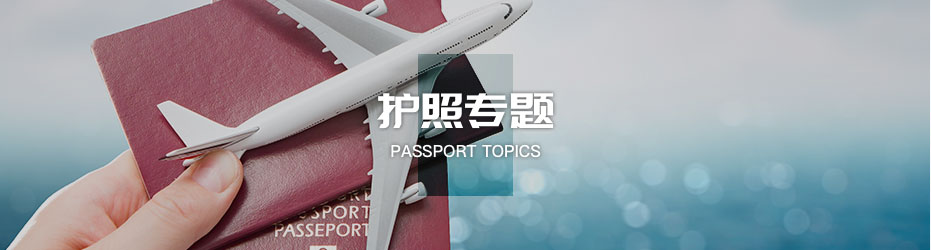
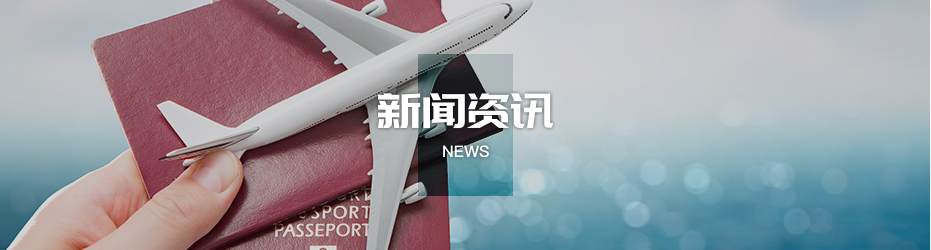
new

Changed region(s): [[0.4049, 0.364, 0.623, 0.532], [0.4049, 0.56, 0.5918, 0.644]]

diff --git a/src/views/home/Home.vue b/src/views/home/Home.vue
@@ -82,7 +82,7 @@
             戴森创始人詹姆斯·戴森
           </li>
         </ul>
-        <router-link to="/emigrant/four">查看更多 ></router-link>
+        <router-link to="/emigrant/singapore">查看更多 ></router-link>
       </div>
     </div>
 
@@ -126,9 +126,12 @@
         <ul>
           <li v-for="(news, index) in newCase" :key="index">
             <router-link class="a" :to="'/news-details/' + news.id">
-              <img
+              <i>
+                <img
                     v-lazy="{src: news.img, loading: require('../../assets/images/country-loading.png'), error: require('../../assets/images/country-loading.png')}"
                   />
+              </i>
+              
               <div class="d clearfix">
                 <h3>{{news.title}}</h3>
                 <p v-html="news.description"></p>
@@ -326,10 +329,19 @@ export default {
             transform: scale(1.03);
           }
         }
-        img {
+        i {
           display: block;
-          width: 100%;
+          height: 160px;
+          img {
+            width: 100%;
+            height: 100%;
+            object-fit: cover;
+          }
         }
+        // img {
+        //   display: block;
+        //   width: 100%;
+        // }
         .d {
           padding: 25px;
           h3 {
@@ -345,11 +357,11 @@ export default {
           p {
             margin: 5px 0 10px;
             color: #b9b9b9;
-            height: 144px;
+            height: 120px;
             line-height: 24px;
             overflow: hidden;     
             display: -webkit-box;
-            -webkit-line-clamp: 6;
+            -webkit-line-clamp: 5;
             -webkit-box-orient: vertical;
           }
           span {

diff --git a/src/views/news/NewsList.vue b/src/views/news/NewsList.vue
@@ -8,7 +8,7 @@
       <div class="left list-banner">
         <div class="new-tab">
           <span><router-link to="/news-expert">新加坡移民专家</router-link></span>
-          <span><router-link to="/news-thematic">护照专题</router-link></span>
+          <span><router-link to="/news-thematic">新闻资讯</router-link></span>
           <span> <router-link to="/news-case">成功案例</router-link></span>
         </div>
         <div class="banner">
@@ -59,7 +59,7 @@ export default {
         },
         thematic: {
           img: require('../../assets/images/news-thematic.jpg'),
-          title: '护照专题',
+          title: '新闻资讯',
           id: 1
         },
         expert: {
@@ -161,6 +161,7 @@ export default {
     display: block;
     width: 100%;
     height: 100%;
+    object-fit: cover;
   }
   .list {
     background: #fff;
@@ -182,7 +183,7 @@ export default {
     }
     p {
       height: 72px;
-      margin: 10px 0 43px 0;
+      margin: 10px 0 40px 0;
       line-height: 24px;
       overflow: hidden;
       display: -webkit-box;
@@ -228,6 +229,7 @@ export default {
     .img {
       float: left;
       width: 270px;
+      height: 160px;
       margin-right: 25px;
     }
   }

diff --git a/src/views/company/Index.vue b/src/views/company/Index.vue
@@ -15,11 +15,10 @@
           <div class="t">
             <strong>新加坡注册公司优势</strong>
             <p>1.	全球最低税赋国家之一</p>
-            <p>2.	获豁免的私人公司年收入不超过500万新币，则无需审计</p>
-            <p>3.	无外汇管制</p>
-            <p>4.	政治、经济和贸易环境稳定</p>
-            <p>5.	与多国签订投资和双重课税保护条约</p>
-            <p>6.	国际品牌与形象，清晰严格的制度与法律</p>
+            <p>2.	无外汇管制</p>
+            <p>3.	政治、经济和贸易环境稳定</p>
+            <p>4.	与多国签订投资和双重课税保护条约</p>
+            <p>5.	国际品牌与形象，清晰严格的制度与法律</p>
           </div>
         </div>
       </div>

diff --git a/src/views/canada/CanadaProject1.vue b/src/views/canada/CanadaProject1.vue
@@ -50,7 +50,7 @@ export default {
           {
             icon: require('../../assets/images/canada/advantage-icon3.jpg'),
             title: '世界一级经济体，政府支持计划',
-            text: '享有具竞争力的税务优惠、进入北美自由贸易区域的特权 、全球最低廉的能源费率、低廉的企业营运成本。'
+            text: '享有具竞争力的税务优惠、进入北美自由贸易区域的特权、全球最低廉的能源费率、低廉的企业营运成本。'
           },
           {
             icon: require('../../assets/images/canada/advantage-icon4.jpg'),

diff --git a/src/views/home/component/StudyAbroad.vue b/src/views/home/component/StudyAbroad.vue
@@ -25,6 +25,7 @@
         </swiper-slide>
       </swiper>
     </div>
+    <router-link class="view-more" to="/overseas-study/one">查看更多 ></router-link>
   </div>
 </template>
 <script>
@@ -182,6 +183,23 @@ export default {
     &:hover {
       box-shadow: 0 0 5px 0 #adadad;
     }
+  }
+}
+.view-more {
+  display: block;
+  width: 180px;
+  height: 50px;
+  margin: 30px auto 0;
+  color: #fff;
+  font-size: 16px;
+  text-align: center;
+  line-height: 50px;
+  background: #315455;
+  opacity: 0.8;
+  border-radius: 25px;
+  transition: .3s;
+  &:hover {
+    opacity: 1;
   }
 }
 </style>

diff --git a/src/components/commonComponent/footer.vue b/src/components/commonComponent/footer.vue
@@ -13,7 +13,7 @@
           <div class="menu left">
             <router-link to="/bank/">银行开户</router-link>
             <router-link to="/asset/">资产配置</router-link>
-            <router-link to="/news-thematic">护照专题</router-link>
+            <router-link to="/news-thematic">新闻资讯</router-link>
             <router-link to="/news-expert">新加坡移民专家</router-link>
           </div>
           <div class="menu left">

diff --git a/src/components/commonComponent/header.vue b/src/components/commonComponent/header.vue
@@ -440,7 +440,7 @@ export default {
           name: "联系我们"
         },
       ],
-      downIndex: [0, 1, 2]
+      downIndex: [0, 1, 2, 3]
     };
   },
   methods: {
@@ -492,6 +492,9 @@ export default {
     padding-top: 8px;
     font-size: 13px;
     color: #efd492;
+    @media (max-width: 767px) {
+      display: none;
+    }
   }
   @media (min-width: 767px) {
     &.is-fixed {

diff --git a/src/components/NewContactUs.vue b/src/components/NewContactUs.vue
@@ -101,6 +101,9 @@ export default {
     padding-top: 11px;
     letter-spacing: 5px;
     color: #fff;
+    a {
+      color: #fff;
+    }
   }
   button {
     display: block;
@@ -195,6 +198,10 @@ export default {
       color: #fff;
       font-size: 18px;
       line-height: 30px;
+      a {
+        color: #fff;
+        font-size: 18px;
+      }
     }
     ul {
       li {

diff --git a/src/views/home/component/Advantage.vue b/src/views/home/component/Advantage.vue
@@ -32,7 +32,7 @@
         <div class="list">
           <img src="../../../assets/images/new-advantage-icon4.png" />
           <p>
-            立足新加坡深耕大中华地区 <br /> 强大的本土行业背景
+            立足新加坡深耕大中华地区 <br /> 一流的本土行业背景
           </p>
         </div>
       </div>

diff --git a/src/views/home/component/VideoAbout.vue b/src/views/home/component/VideoAbout.vue
@@ -267,7 +267,12 @@ export default {
       color: #fff;
       font-size: 18px;
       line-height: 30px;
+      a {
+        color: #fff;
+        font-size: 18px;
+      }
     }
+    
     ul {
       li {
         position: relative;

diff --git a/src/views/home/component/NewModule.vue b/src/views/home/component/NewModule.vue
@@ -230,7 +230,7 @@ export default {
     .img {
       float: left;
       width: 300px;
-      height: 210px;
+      height: 173px;
       overflow: hidden;
       margin-right: 20px;
       border: 1px solid #e6e6e6;

diff --git a/src/views/news/NewsDetails.vue b/src/views/news/NewsDetails.vue
@@ -55,7 +55,7 @@ export default {
       loadingStatus: false,
       navCrumbs: [
         {
-          title: '护照专题',
+          title: '新闻资讯',
           url: '/news-thematic'
         },
         {
